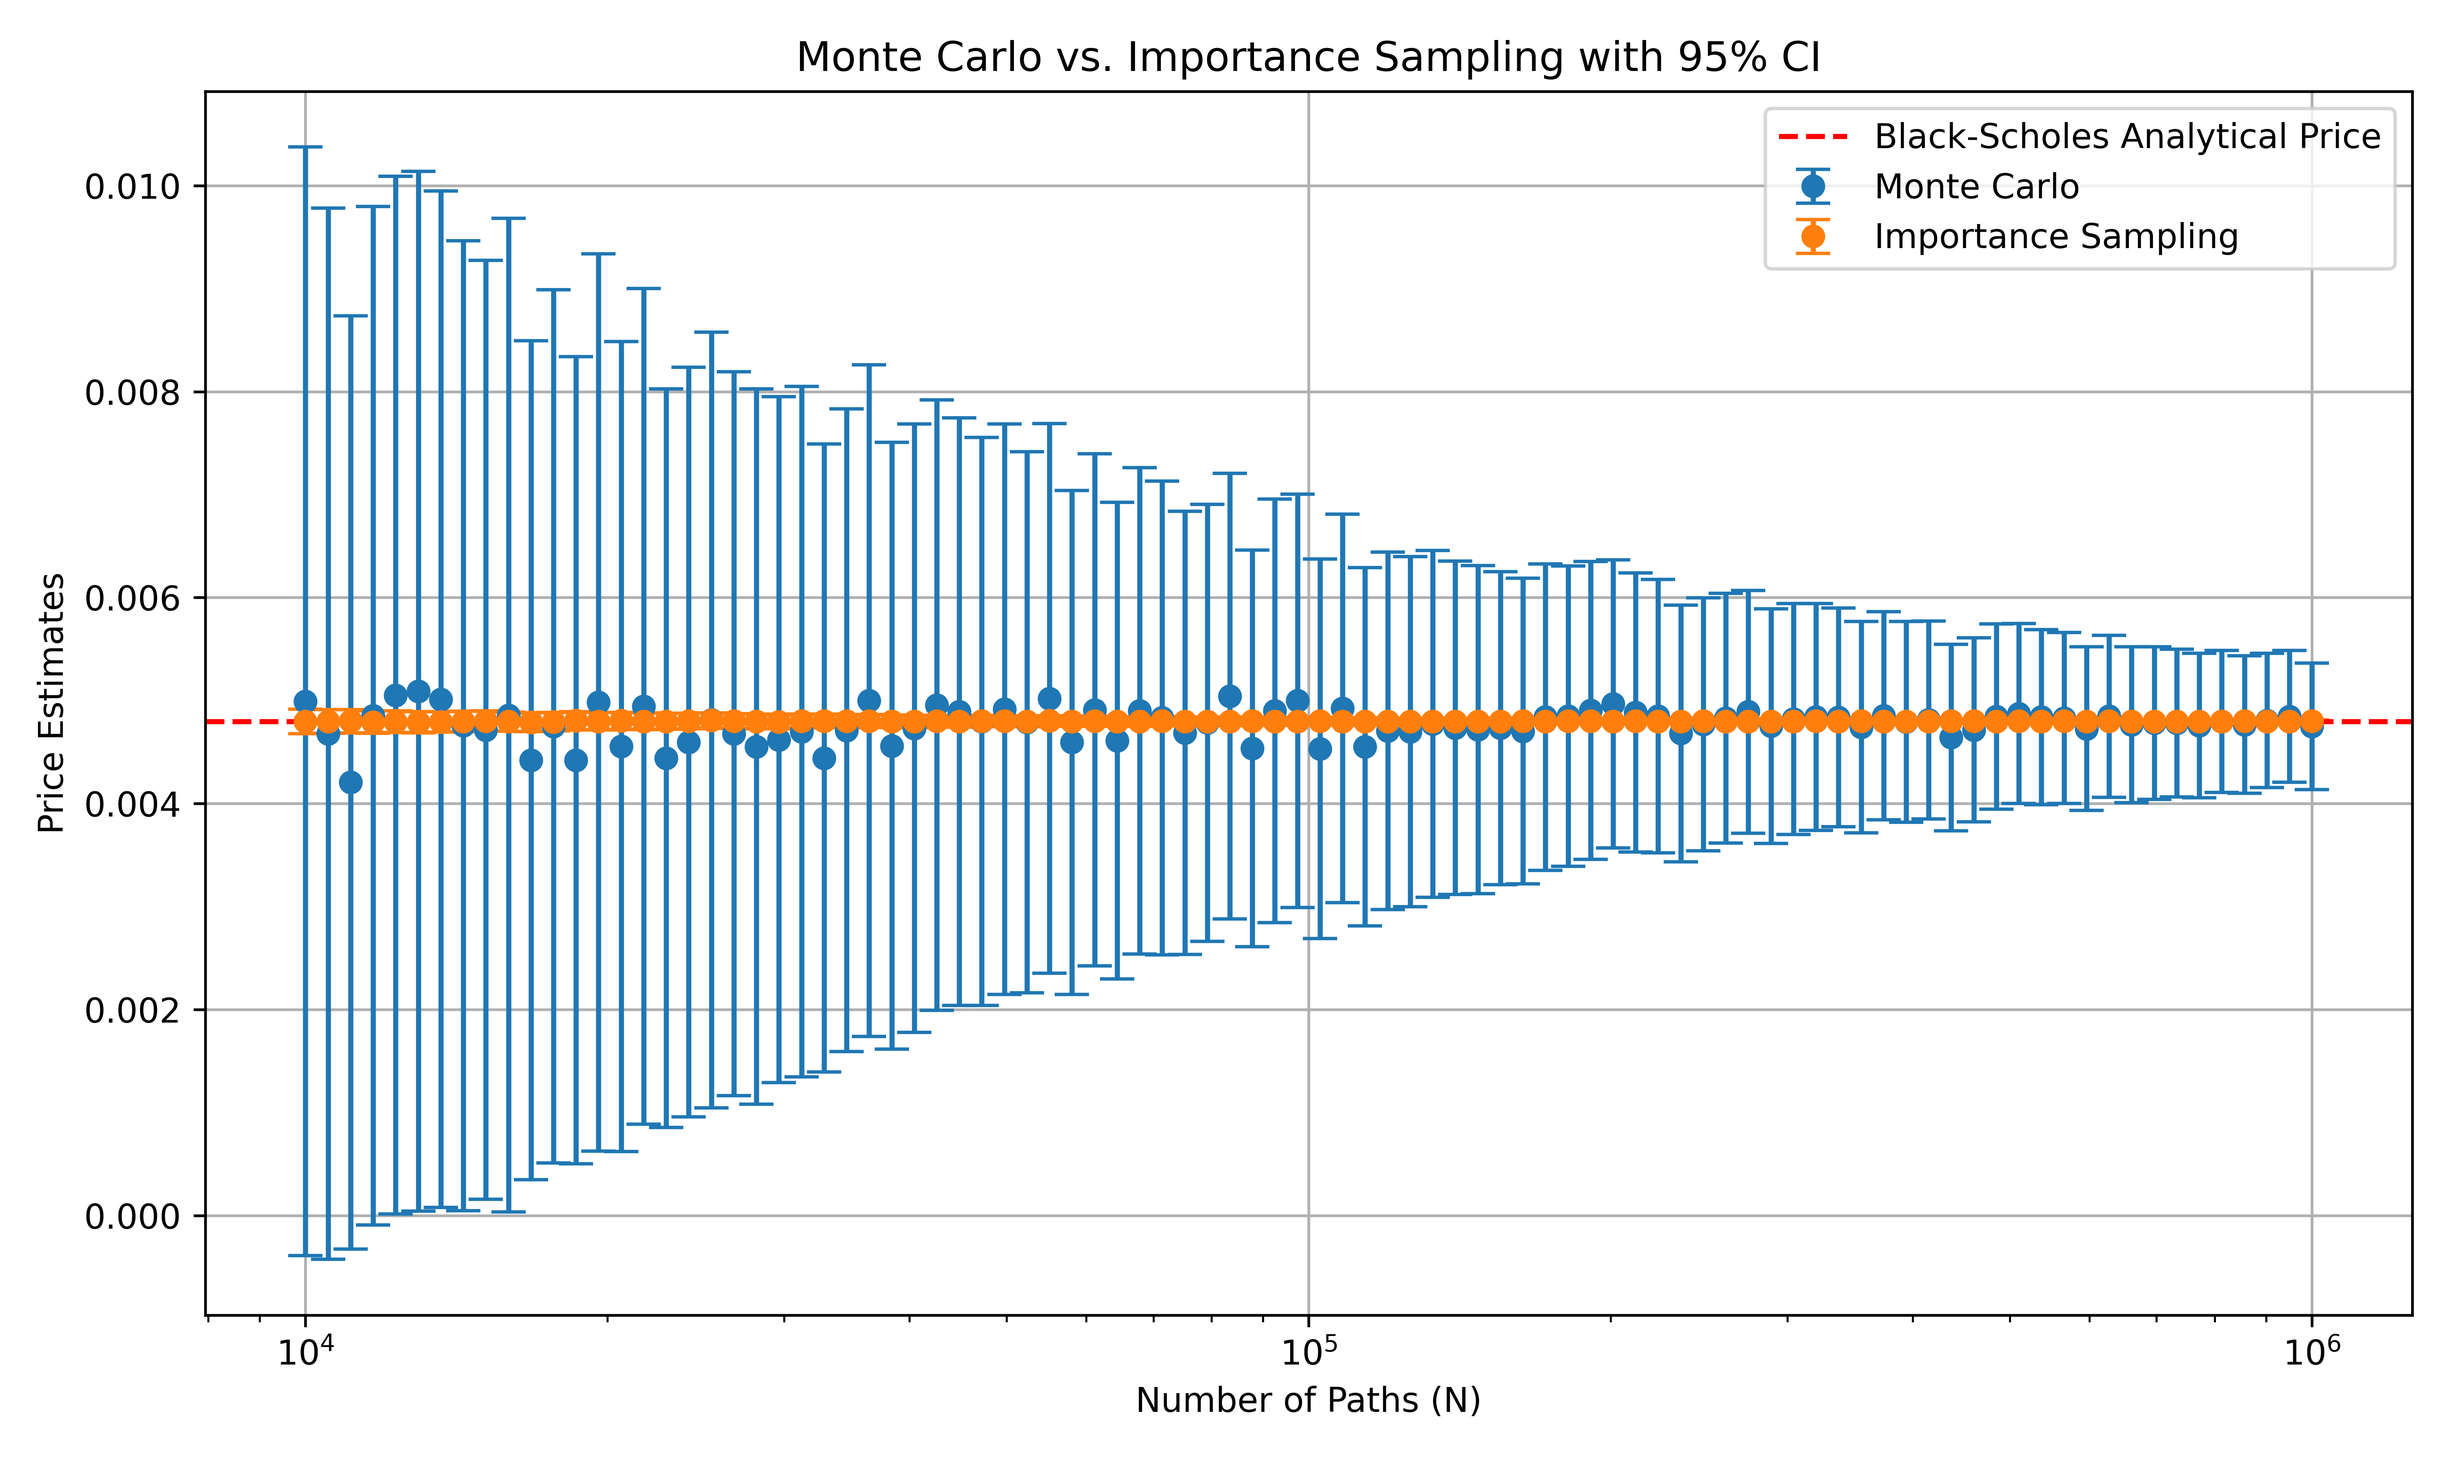
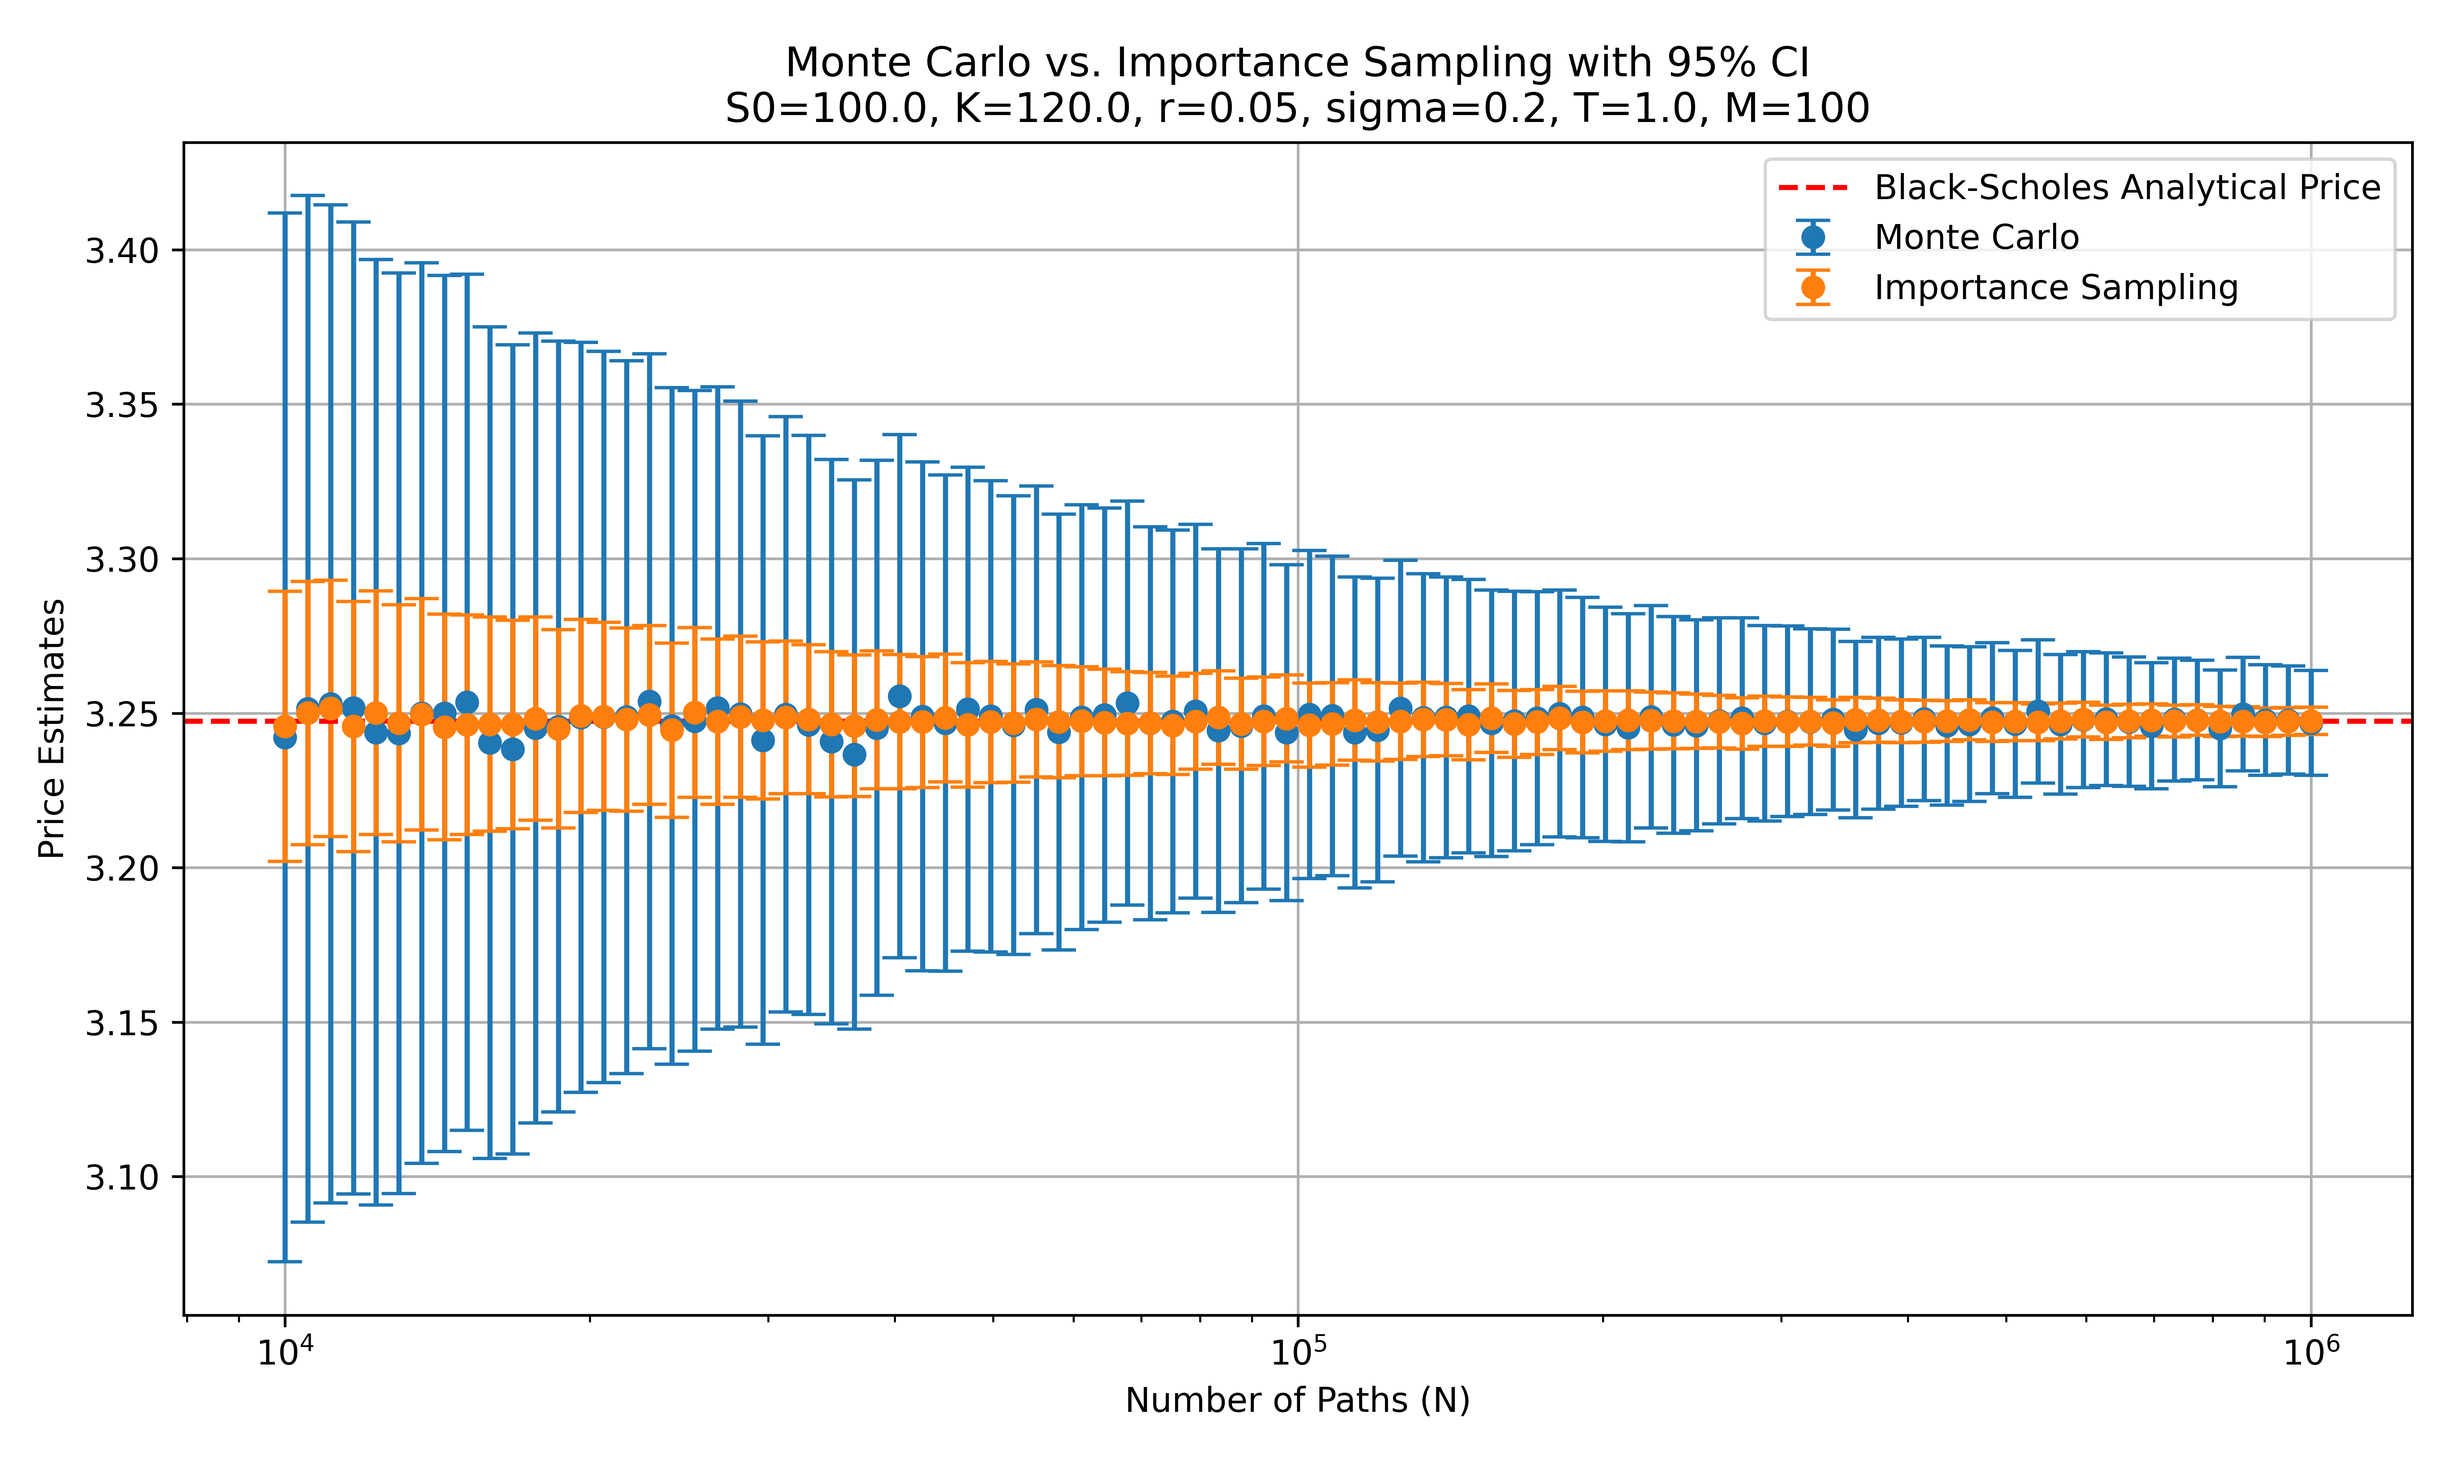
update graph with proper info

diff --git a/drift_optimizer.py b/drift_optimizer.py
@@ -80,7 +80,7 @@ def black_scholes_call_price(S0, K, r, sigma, T):
 
 # Parameters for the European call
 S0 = 100.0
-K = 200.0
+K = 120.0
 r = 0.05
 sigma = 0.2
 T = 1.0
@@ -156,7 +156,12 @@ plt.axhline(bs_price, color='red', linestyle='--', label='Black-Scholes Analytic
 plt.xscale("log")
 plt.xlabel('Number of Paths (N)')
 plt.ylabel('Price Estimates')
-plt.title('Monte Carlo vs. Importance Sampling with 95% CI')
+
+# Include simulation parameters in the plot title
+title = f"Monte Carlo vs. Importance Sampling with 95% CI\n"
+title += f"S0={S0}, K={K}, r={r}, sigma={sigma}, T={T}, M={M}"
+plt.title(title)
+
 plt.legend()
 plt.grid(True)
 

diff --git a/README.md b/README.md
@@ -201,110 +201,110 @@ Then we pick an initial guess $\mu^{(0)}$ and plug $\mu^{(0)}$ into the right-ha
 
 Parameters:
 - $S_0 = 100$
-- $K = 200$
+- $K = 120$
 - $r = 0.05$
 - $\sigma = 0.2$
 - $T = 1.0$
 
-This is the result of a deep out-the-money option with $K = 200$ and $S_0 = 100$.
+This is the result of an out-the-money option with $K = 120$ and $S_0 = 100$.
 
 
 ![](monte_carlo_vs_importance_sampling.png)
 
 ```
 Path Count | MC Estimate | MC StdErr | IS Estimate | IS StdErr
-    10000 |    0.004992 |   0.002746 |    0.004798 |   0.000060
-    10531 |    0.004677 |   0.002603 |    0.004799 |   0.000059
-    11090 |    0.004206 |   0.002311 |    0.004800 |   0.000057
-    11679 |    0.004854 |   0.002523 |    0.004791 |   0.000056
-    12299 |    0.005052 |   0.002570 |    0.004795 |   0.000054
-    12952 |    0.005090 |   0.002576 |    0.004790 |   0.000053
-    13640 |    0.005011 |   0.002518 |    0.004793 |   0.000051
-    14364 |    0.004757 |   0.002402 |    0.004796 |   0.000050
-    15127 |    0.004715 |   0.002326 |    0.004803 |   0.000049
-    15931 |    0.004858 |   0.002461 |    0.004797 |   0.000048
-    16777 |    0.004421 |   0.002077 |    0.004790 |   0.000046
-    17668 |    0.004750 |   0.002163 |    0.004794 |   0.000045
-    18606 |    0.004420 |   0.001999 |    0.004804 |   0.000044
-    19594 |    0.004983 |   0.002222 |    0.004799 |   0.000043
-    20635 |    0.004554 |   0.002006 |    0.004803 |   0.000042
-    21730 |    0.004943 |   0.002069 |    0.004799 |   0.000041
-    22884 |    0.004440 |   0.001829 |    0.004798 |   0.000040
-    24100 |    0.004597 |   0.001856 |    0.004801 |   0.000039
-    25380 |    0.004812 |   0.001921 |    0.004808 |   0.000038
-    26727 |    0.004678 |   0.001793 |    0.004801 |   0.000037
-    28147 |    0.004553 |   0.001772 |    0.004798 |   0.000036
-    29642 |    0.004619 |   0.001699 |    0.004793 |   0.000035
-    31216 |    0.004698 |   0.001711 |    0.004802 |   0.000034
-    32874 |    0.004442 |   0.001555 |    0.004802 |   0.000033
-    34619 |    0.004712 |   0.001592 |    0.004802 |   0.000032
-    36458 |    0.005000 |   0.001663 |    0.004801 |   0.000031
-    38394 |    0.004561 |   0.001503 |    0.004799 |   0.000031
-    40433 |    0.004731 |   0.001507 |    0.004797 |   0.000030
-    42580 |    0.004956 |   0.001512 |    0.004799 |   0.000029
-    44842 |    0.004893 |   0.001456 |    0.004796 |   0.000028
-    47223 |    0.004798 |   0.001407 |    0.004802 |   0.000028
-    49731 |    0.004916 |   0.001412 |    0.004800 |   0.000027
-    52372 |    0.004789 |   0.001339 |    0.004799 |   0.000026
-    55153 |    0.005019 |   0.001361 |    0.004803 |   0.000026
-    58082 |    0.004593 |   0.001249 |    0.004798 |   0.000025
-    61166 |    0.004909 |   0.001268 |    0.004801 |   0.000024
-    64415 |    0.004610 |   0.001181 |    0.004796 |   0.000024
-    67836 |    0.004899 |   0.001205 |    0.004796 |   0.000023
-    71438 |    0.004831 |   0.001174 |    0.004802 |   0.000022
-    75232 |    0.004687 |   0.001097 |    0.004796 |   0.000022
-    79227 |    0.004784 |   0.001082 |    0.004799 |   0.000021
-    83435 |    0.005044 |   0.001103 |    0.004797 |   0.000021
-    87865 |    0.004535 |   0.000982 |    0.004801 |   0.000020
-    92532 |    0.004900 |   0.001050 |    0.004798 |   0.000020
-    97446 |    0.004998 |   0.001024 |    0.004799 |   0.000019
-   102620 |    0.004532 |   0.000939 |    0.004802 |   0.000019
-   108070 |    0.004923 |   0.000962 |    0.004798 |   0.000018
-   113809 |    0.004552 |   0.000888 |    0.004799 |   0.000018
-   119853 |    0.004706 |   0.000885 |    0.004796 |   0.000017
-   126218 |    0.004697 |   0.000867 |    0.004797 |   0.000017
-   132921 |    0.004772 |   0.000859 |    0.004798 |   0.000016
-   139980 |    0.004736 |   0.000825 |    0.004797 |   0.000016
-   147414 |    0.004717 |   0.000813 |    0.004797 |   0.000016
-   155242 |    0.004732 |   0.000775 |    0.004799 |   0.000015
-   163486 |    0.004704 |   0.000757 |    0.004800 |   0.000015
-   172169 |    0.004840 |   0.000759 |    0.004798 |   0.000014
-   181312 |    0.004848 |   0.000743 |    0.004800 |   0.000014
-   190940 |    0.004904 |   0.000737 |    0.004800 |   0.000014
-   201080 |    0.004968 |   0.000714 |    0.004799 |   0.000013
-   211759 |    0.004885 |   0.000691 |    0.004799 |   0.000013
-   223005 |    0.004848 |   0.000677 |    0.004796 |   0.000013
-   234847 |    0.004682 |   0.000636 |    0.004798 |   0.000012
-   247319 |    0.004771 |   0.000627 |    0.004799 |   0.000012
-   260453 |    0.004830 |   0.000619 |    0.004798 |   0.000012
-   274285 |    0.004891 |   0.000601 |    0.004798 |   0.000011
-   288851 |    0.004752 |   0.000581 |    0.004798 |   0.000011
-   304190 |    0.004821 |   0.000572 |    0.004798 |   0.000011
-   320345 |    0.004841 |   0.000561 |    0.004800 |   0.000011
-   337357 |    0.004836 |   0.000542 |    0.004799 |   0.000010
-   355272 |    0.004742 |   0.000524 |    0.004800 |   0.000010
-   374139 |    0.004853 |   0.000516 |    0.004799 |   0.000010
-   394008 |    0.004792 |   0.000497 |    0.004799 |   0.000010
-   414932 |    0.004811 |   0.000489 |    0.004797 |   0.000009
-   436967 |    0.004641 |   0.000462 |    0.004800 |   0.000009
-   460173 |    0.004715 |   0.000456 |    0.004800 |   0.000009
-   484610 |    0.004843 |   0.000459 |    0.004799 |   0.000009
-   510346 |    0.004873 |   0.000446 |    0.004800 |   0.000008
-   537448 |    0.004839 |   0.000433 |    0.004798 |   0.000008
-   565990 |    0.004830 |   0.000423 |    0.004800 |   0.000008
-   596047 |    0.004726 |   0.000405 |    0.004798 |   0.000008
-   627700 |    0.004847 |   0.000401 |    0.004799 |   0.000008
-   661035 |    0.004767 |   0.000386 |    0.004799 |   0.000007
-   696140 |    0.004780 |   0.000378 |    0.004799 |   0.000007
-   733108 |    0.004780 |   0.000366 |    0.004798 |   0.000007
-   772041 |    0.004756 |   0.000358 |    0.004799 |   0.000007
-   813040 |    0.004796 |   0.000352 |    0.004799 |   0.000007
-   856217 |    0.004767 |   0.000340 |    0.004799 |   0.000006
-   901687 |    0.004805 |   0.000332 |    0.004799 |   0.000006
-   949572 |    0.004846 |   0.000326 |    0.004798 |   0.000006
-  1000000 |    0.004749 |   0.000313 |    0.004800 |   0.000006
+    10000 |    3.242168 |   0.086589 |    3.245684 |   0.022313
+    10531 |    3.251394 |   0.084733 |    3.250035 |   0.021726
+    11090 |    3.253028 |   0.082399 |    3.251525 |   0.021171
+    11679 |    3.251629 |   0.080240 |    3.245672 |   0.020642
+    12299 |    3.243787 |   0.078044 |    3.250124 |   0.020122
+    12952 |    3.243491 |   0.076026 |    3.246720 |   0.019591
+    13640 |    3.250014 |   0.074358 |    3.249562 |   0.019104
+    14364 |    3.249904 |   0.072350 |    3.245501 |   0.018619
+    15127 |    3.253537 |   0.070675 |    3.246251 |   0.018142
+    15931 |    3.240448 |   0.068642 |    3.246435 |   0.017676
+    16777 |    3.238310 |   0.066796 |    3.246338 |   0.017232
+    17668 |    3.245230 |   0.065231 |    3.248242 |   0.016785
+    18606 |    3.245625 |   0.063629 |    3.244925 |   0.016363
+    19594 |    3.248665 |   0.061904 |    3.249127 |   0.015933
+    20635 |    3.248723 |   0.060376 |    3.248935 |   0.015523
+    21730 |    3.248707 |   0.058847 |    3.247953 |   0.015128
+    22884 |    3.253823 |   0.057354 |    3.249440 |   0.014746
+    24100 |    3.245864 |   0.055853 |    3.244499 |   0.014376
+    25380 |    3.247488 |   0.054517 |    3.250217 |   0.013999
+    26727 |    3.251633 |   0.053032 |    3.247280 |   0.013646
+    28147 |    3.249656 |   0.051683 |    3.248826 |   0.013296
+    29642 |    3.241292 |   0.050248 |    3.247652 |   0.012957
+    31216 |    3.249578 |   0.049142 |    3.248621 |   0.012622
+    32874 |    3.246203 |   0.047805 |    3.248019 |   0.012300
+    34619 |    3.240775 |   0.046580 |    3.246375 |   0.011992
+    36458 |    3.236652 |   0.045344 |    3.245886 |   0.011686
+    38394 |    3.245249 |   0.044189 |    3.247829 |   0.011385
+    40433 |    3.255466 |   0.043184 |    3.247199 |   0.011093
+    42580 |    3.248952 |   0.042036 |    3.247114 |   0.010810
+    44842 |    3.246821 |   0.040956 |    3.248447 |   0.010531
+    47223 |    3.251300 |   0.039942 |    3.246210 |   0.010268
+    49731 |    3.248961 |   0.038920 |    3.247124 |   0.010006
+    52372 |    3.246117 |   0.037881 |    3.246780 |   0.009750
+    55153 |    3.251091 |   0.036968 |    3.247927 |   0.009498
+    58082 |    3.243870 |   0.035985 |    3.247221 |   0.009256
+    61166 |    3.248693 |   0.035093 |    3.247387 |   0.009020
+    64415 |    3.249388 |   0.034195 |    3.246943 |   0.008791
+    67836 |    3.253207 |   0.033350 |    3.246666 |   0.008567
+    71438 |    3.246740 |   0.032448 |    3.246728 |   0.008348
+    75232 |    3.247278 |   0.031593 |    3.246028 |   0.008136
+    79227 |    3.250631 |   0.030838 |    3.247369 |   0.007926
+    83435 |    3.244349 |   0.029996 |    3.248613 |   0.007722
+    87865 |    3.245913 |   0.029237 |    3.246576 |   0.007527
+    92532 |    3.248962 |   0.028517 |    3.247356 |   0.007334
+    97446 |    3.243678 |   0.027754 |    3.248291 |   0.007146
+   102620 |    3.249547 |   0.027063 |    3.246106 |   0.006965
+   108070 |    3.249107 |   0.026380 |    3.246501 |   0.006787
+   113809 |    3.243742 |   0.025696 |    3.247768 |   0.006613
+   119853 |    3.244529 |   0.025041 |    3.247166 |   0.006444
+   126218 |    3.251543 |   0.024427 |    3.247347 |   0.006280
+   132921 |    3.248513 |   0.023780 |    3.248002 |   0.006118
+   139980 |    3.248647 |   0.023185 |    3.247864 |   0.005962
+   147414 |    3.249041 |   0.022585 |    3.246277 |   0.005811
+   155242 |    3.246757 |   0.022008 |    3.248360 |   0.005662
+   163486 |    3.247470 |   0.021442 |    3.246496 |   0.005519
+   172169 |    3.248384 |   0.020907 |    3.247124 |   0.005377
+   181312 |    3.249833 |   0.020378 |    3.248417 |   0.005239
+   190940 |    3.248565 |   0.019851 |    3.247094 |   0.005106
+   201080 |    3.246442 |   0.019340 |    3.247461 |   0.004975
+   211759 |    3.245319 |   0.018828 |    3.247678 |   0.004848
+   223005 |    3.248796 |   0.018365 |    3.247548 |   0.004724
+   234847 |    3.246237 |   0.017893 |    3.247491 |   0.004603
+   247319 |    3.246046 |   0.017437 |    3.247357 |   0.004486
+   260453 |    3.247491 |   0.016988 |    3.247228 |   0.004371
+   274285 |    3.248375 |   0.016557 |    3.246649 |   0.004260
+   288851 |    3.246744 |   0.016133 |    3.247400 |   0.004151
+   304190 |    3.247346 |   0.015721 |    3.247240 |   0.004045
+   320345 |    3.247192 |   0.015323 |    3.247318 |   0.003942
+   337357 |    3.247956 |   0.014926 |    3.246831 |   0.003841
+   355272 |    3.244643 |   0.014544 |    3.247776 |   0.003743
+   374139 |    3.246733 |   0.014175 |    3.247684 |   0.003647
+   394008 |    3.246905 |   0.013812 |    3.247372 |   0.003554
+   414932 |    3.248122 |   0.013468 |    3.247339 |   0.003463
+   436967 |    3.246006 |   0.013118 |    3.247476 |   0.003375
+   460173 |    3.246442 |   0.012782 |    3.247814 |   0.003289
+   484610 |    3.248323 |   0.012458 |    3.247083 |   0.003205
+   510346 |    3.246491 |   0.012135 |    3.247278 |   0.003123
+   537448 |    3.250577 |   0.011838 |    3.247011 |   0.003043
+   565990 |    3.246410 |   0.011525 |    3.247438 |   0.002965
+   596047 |    3.247892 |   0.011237 |    3.247913 |   0.002890
+   627700 |    3.248072 |   0.010944 |    3.247027 |   0.002816
+   661035 |    3.247231 |   0.010669 |    3.247456 |   0.002744
+   696140 |    3.245895 |   0.010392 |    3.247751 |   0.002674
+   733108 |    3.247932 |   0.010131 |    3.247437 |   0.002606
+   772041 |    3.247752 |   0.009869 |    3.247739 |   0.002539
+   813040 |    3.245060 |   0.009612 |    3.247311 |   0.002474
+   856217 |    3.249692 |   0.009376 |    3.247328 |   0.002411
+   901687 |    3.247719 |   0.009131 |    3.247000 |   0.002349
+   949572 |    3.247761 |   0.008899 |    3.247277 |   0.002289
+  1000000 |    3.246826 |   0.008671 |    3.247497 |   0.002231
 
-Variance Reduction Multiple: 2455.37
+Variance Reduction Multiple: 15.11
 ```
 
 ## Citations
